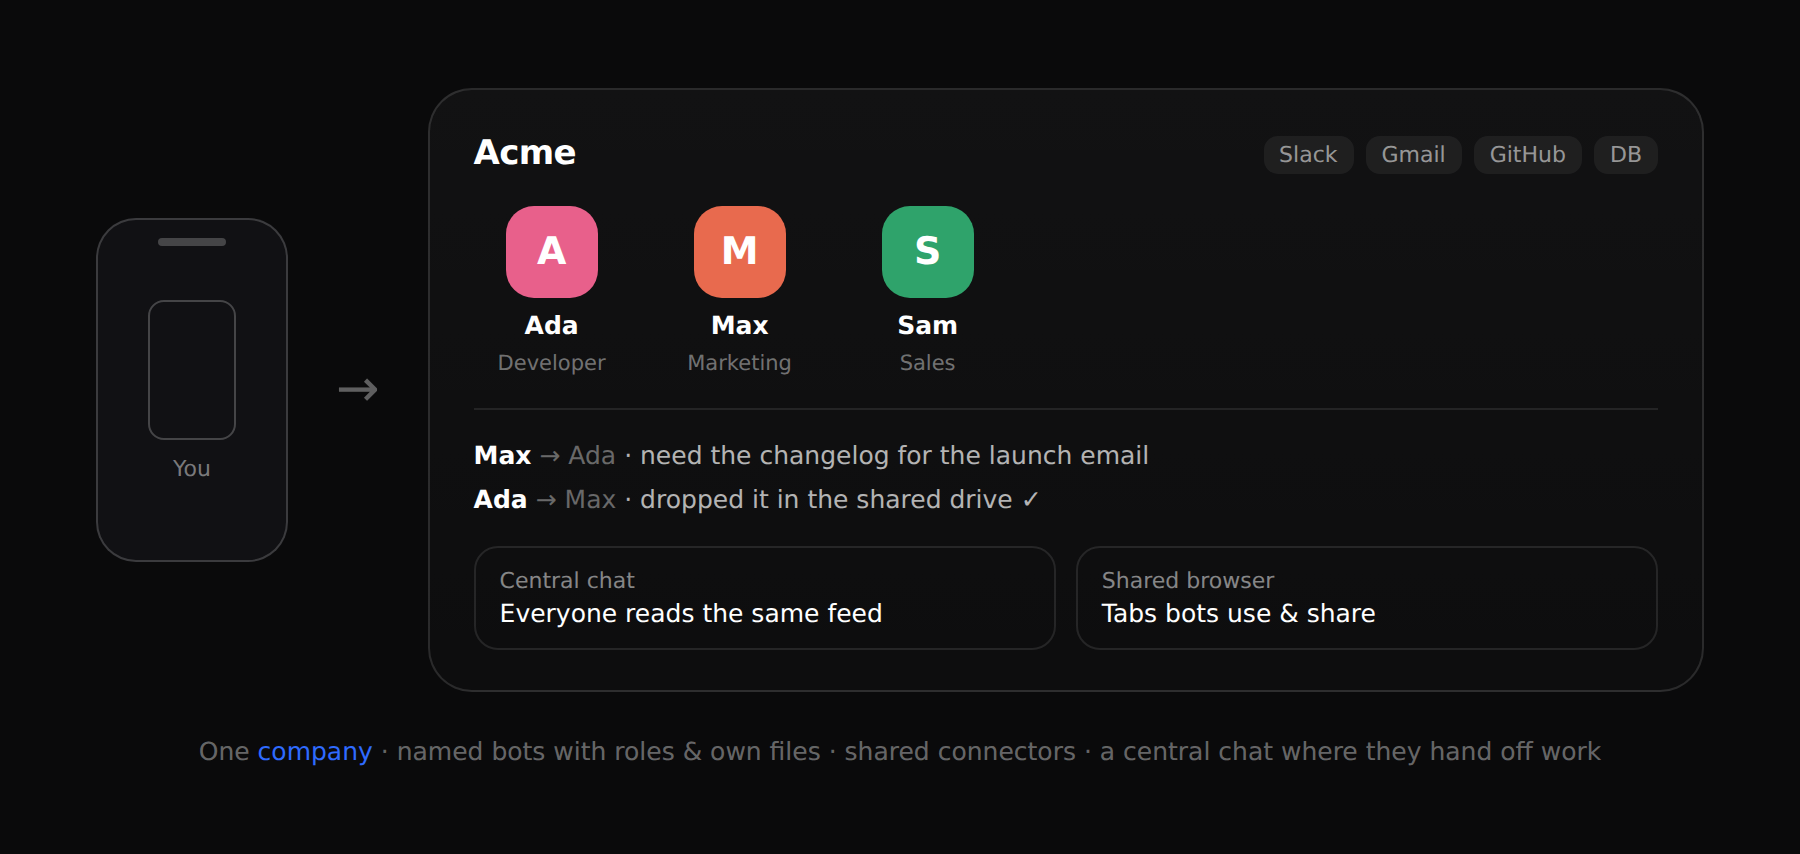
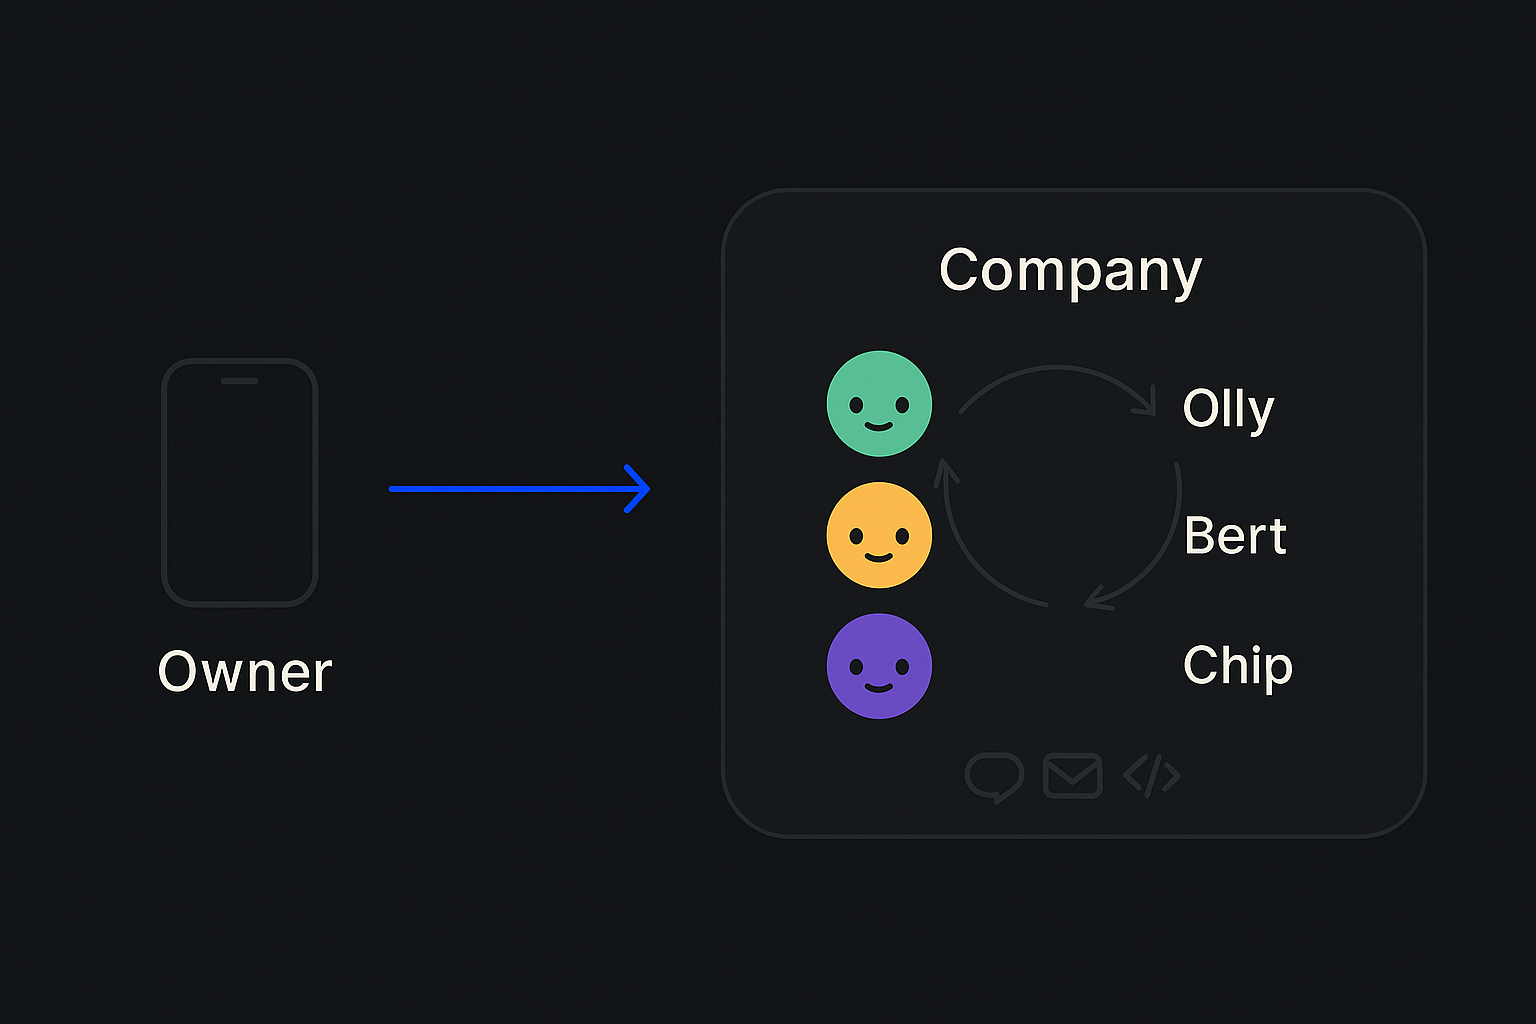
docs(readme): GPT-Image-designed hero + mental-model diagram
The hero and the mental-model diagram are now designed by the image model (goal +
the app's own dark screenshots as style references) instead of hand-built: a
cinematic 'BOT MODE' hero (three glowing bot teammates with connecting light) and
a clean owner -> company diagram (three named bots handing work off in a loop,
shared connectors). Both match the app's dark premium aesthetic. The real product
screenshots stay real captures (honest UI), not generated.

diff --git a/README.md b/README.md
@@ -13,7 +13,7 @@
   <!-- TODO: capture from /?mock or /dev — mock data only, no client PII. The money shot:
        phone frame → company chat where Sol asks Ada for the changelog, Ada posts a file,
        a workflow step ticks green, a push notification slides in "Ada needs your approval." -->
-  <img src="docs/screenshots/botmode/hero.png" alt="supermux Bot Mode — Run a company of bots: named AI teammates (a developer, a marketer, a sales bot) organized into companies that talk to each other" width="420">
+  <img src="docs/screenshots/botmode/hero.png" alt="supermux Bot Mode — Run a company of bots: named AI teammates (a developer, a marketer, a sales bot) organized into companies that talk to each other" width="760">
 </p>
 
 <!-- TODO(launch): replace hero.png with an animated hero GIF+HD mp4 (a company handing off work in the central chat → a workflow step ticks green → a push asks the owner for approval). Capture from /?mock — mock data only, no client PII. -->
